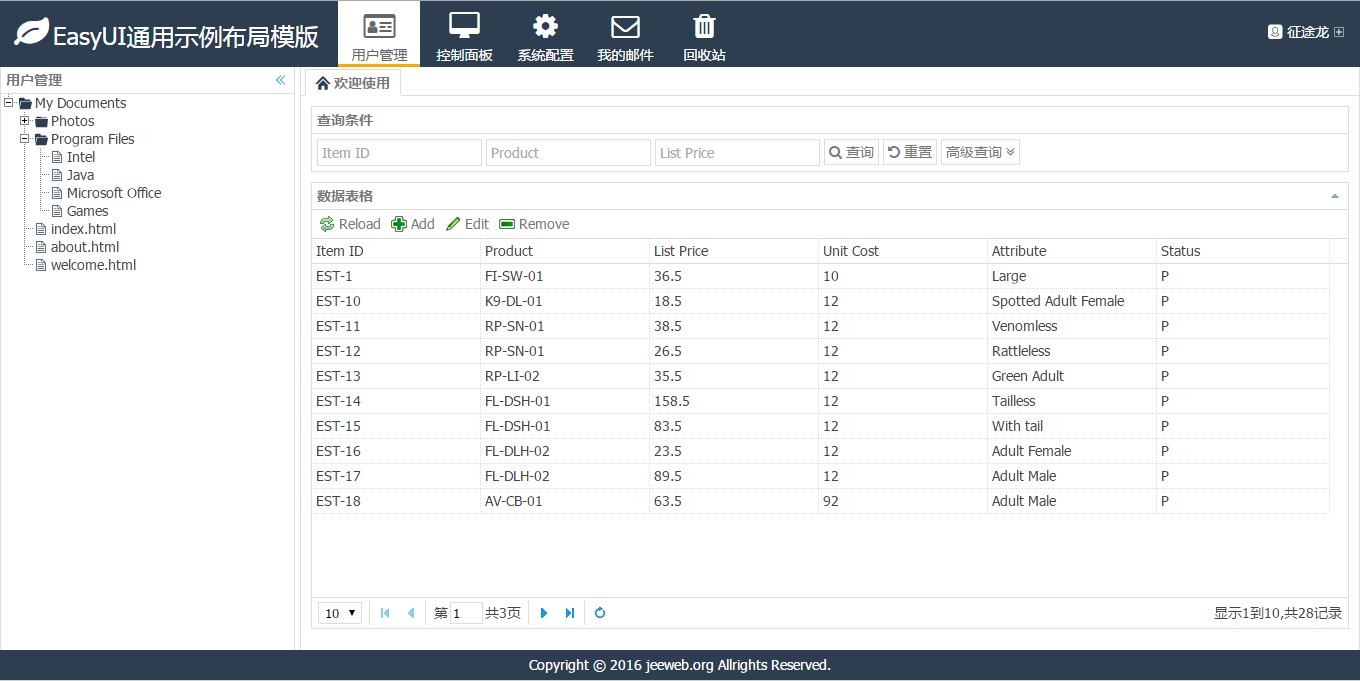
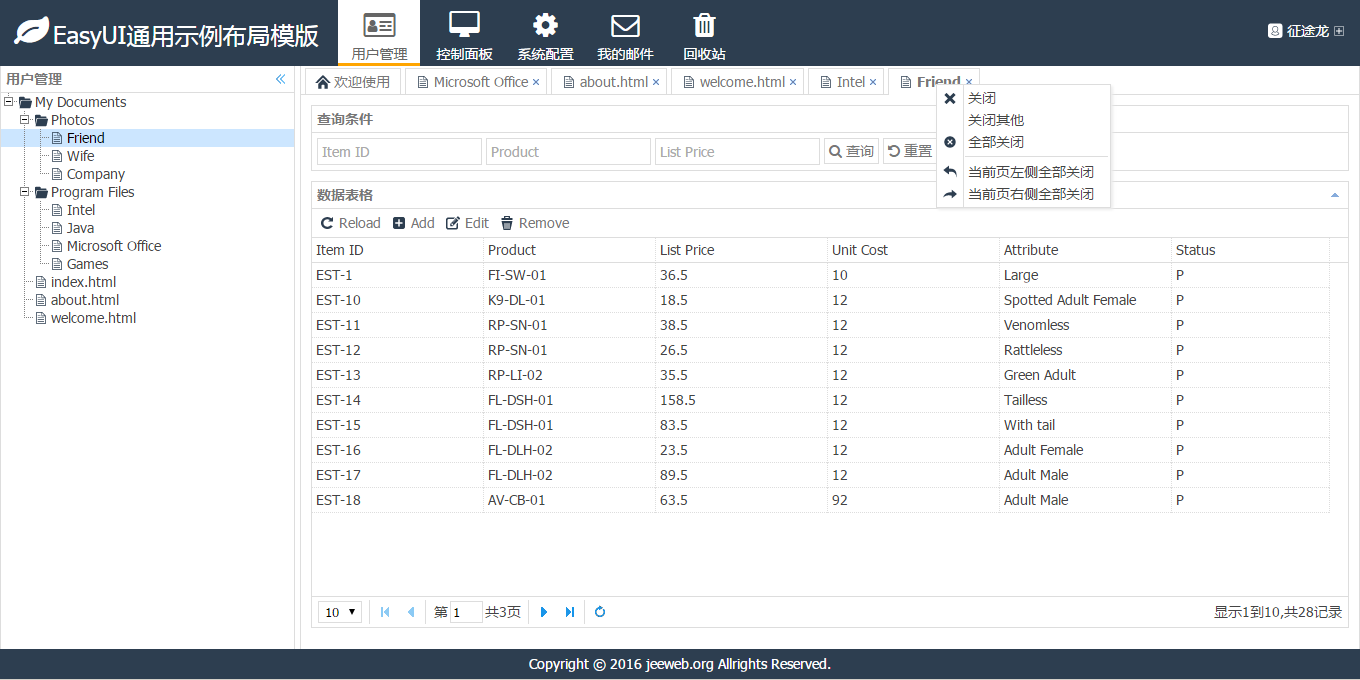
替换部分easyui原生图标

diff --git a/plugins/jeasyui.ext.js b/plugins/jeasyui.ext.js
@@ -19,7 +19,7 @@ $.easyuiExt = {
 			inIFrame: true, //是否使用iframe加载完整网页？
 			title: '新标签页',
 			href: 'javascript:;',
-			iconCls: '',
+			iconCls: 'icon-file',
 			closable: true
 		};
 		options = $.extend(defaults, options);
@@ -33,6 +33,7 @@ $.easyuiExt = {
 				id: options.id,
 				title: options.title,
 				closable: options.closable,
+				iconCls: options.iconCls,
 				href: options.href
 			}
 			if(options.icon) {
@@ -75,12 +76,12 @@ $.easyuiExt = {
 
 		var mmHtml = '<div id="main-tabs-mm" class="easyui-menu" style="width:175px;display:none;">' +
 			/*'<div id="mm-tabreload" data-options="name:6">刷新</div>' +*/
-			'<div id="mm-tabclose" data-options="name:1">关闭</div>' +
-			' <div id="mm-tabcloseall" data-options="name:2">全部关闭</div>' +
-			'<div id="mm-tabcloseother" data-options="name:3">除此之外全部关闭</div>' +
+			'<div id="mm-tabclose" iconCls="icon-no" data-options="name:1">关闭</div>' +
+			'<div id="mm-tabcloseother" data-options="name:3">关闭其他</div>' +
+			' <div id="mm-tabcloseall" iconCls="icon-cancel" data-options="name:2">全部关闭</div>' +
 			'<div class="menu-sep"></div>' +
-			'<div id="mm-tabcloseright" data-options="name:4">当前页左侧全部关闭</div>' +
-			'<div id="mm-tabcloseleft" data-options="name:5">当前页右侧全部关闭</div> </div>';
+			'<div id="mm-tabcloseright" iconCls="icon-undo" data-options="name:4">当前页左侧全部关闭</div>' +
+			'<div id="mm-tabcloseleft" iconCls="icon-redo" data-options="name:5">当前页右侧全部关闭</div> </div>';
 
 		$('body').append($(mmHtml));
 

diff --git a/index.html b/index.html
@@ -50,7 +50,7 @@
 				    <div>我的资料</div>
 				    <div>更改密码</div>
 				    <div class="menu-sep"></div>
-				    <div>安全退出</div>
+				    <div iconCls="icon-exit">安全退出</div>
 				</div>
 			</div>
 		</div>
@@ -95,16 +95,24 @@
 								inIFrame: false,
 								title: node.text,
 								href: node.url,
+								iconCls:'icon-file',
 								closable: true
 							});
 						}
 					},
-					onLoadError: function() {
-						$(this).html("<center style='margin-top:15px;color: #666;'>该模块下暂时没有子菜单.</center>");
+					onLoadError: onNoTreeData,
+					onLoadSuccess: function(node, data) {
+						if(!data || data.length == 0) {
+							onNoTreeData();
+						}
 					}
 				});
 			});
 			
+			// 当左侧菜单下没有数据时展示
+			var onNoTreeData = function() {
+				$('#left-menu-tree').html("<center style='margin-top:15px;color: #666;'>该模块下暂时没有子菜单.</center>");
+			}
 			
 			// 执行初始化工作
 			window.onload = function() {

diff --git a/plugins/easyui/style/metro-black/style.css b/plugins/easyui/style/metro-black/style.css
@@ -90,12 +90,6 @@
 	background: url(images/s-btn-downarrow.png) center left no-repeat;
 }
 
-.icon-user-info {
-	background: url(images/user-info.png) center center no-repeat;
-}
-.icon-home {
-	background: url(images/icon-home.png) center center no-repeat;
-}
 
 #easyui-header .top-fa-center {
 	margin-top: 10px;
@@ -158,3 +152,18 @@
 	width: 18px; height: 18px;
 	background: url(images/layout-button-right.png) center center no-repeat;
 }*/
+
+
+/*自定义图标*/
+.icon-user-info {
+	background: url(images/user-info.png) center center no-repeat;
+}
+.icon-home {
+	background: url(images/icon-home.png) center center no-repeat;
+}
+.icon-file {
+	background: url(images/tree-file.png) center center no-repeat;
+}
+.icon-exit {
+	background: url(images/icon-exit.png) center center no-repeat;
+}
